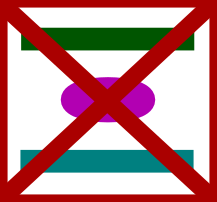
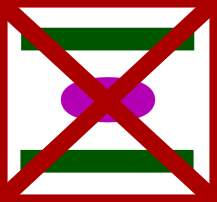
collor corrections to pult

Changed region(s): [[0.1935, 0.7426, 0.8018, 0.8614], [0.0829, 0.7426, 0.1935, 0.8614], [0.8018, 0.7426, 0.9124, 0.8317]]

diff --git a/dashboard/fireboard.py b/dashboard/fireboard.py
@@ -11,7 +11,7 @@ script_path = op.dirname(op.realpath(__file__))
 class V2kInfo(BaseGridW):
     def __init__(self, parent=None):
         super().__init__(parent)
-        self.setStyleSheet('QLabel{font-size:20pt; color:#009900}')
+        self.setStyleSheet('QLabel{font-size:20pt; color:#00e000}')
 
         self.grid.addWidget(QLabel("VEPP2k:"), 0, 0)
         self.v2k_particles_lab = CXIntLabel(cname='cxout:1.v2k.regime',
@@ -68,7 +68,7 @@ class V2kInfo(BaseGridW):
 class V34Info(BaseGridW):
     def __init__(self, parent=None):
         super().__init__(parent)
-        self.setStyleSheet('QLabel{font-size:20pt; color:#009900;}')
+        self.setStyleSheet('QLabel{font-size:20pt; color:#00E000;}')
 
         self.grid.addWidget(QLabel("VEPP3:"), 0, 0)
 
@@ -134,8 +134,8 @@ class FireBoardWidget(BaseGridW):
         self.plt_bep = self.graph_bep.addPlot(labels={'left': ('BEP current', 'mA'), 'bottom': ('Age', 's')})
         self.plt_bep.setXRange(0, 900, padding=0.02)
         self.plt_bep.invertX(True)
-        self.pen_e = pg.mkPen(0, 255, 0, width=self.line_w)
-        self.pen_p = pg.mkPen(255, 0, 0, width=self.line_w)
+        self.pen_e = pg.mkPen(0, 200, 0, width=self.line_w)
+        self.pen_p = pg.mkPen(200, 0, 0, width=self.line_w)
         self.curv_bep = None
 
         plt_v2k = self.graph_v2k.addPlot(labels={'left': ('V2k current', 'mA'), 'bottom': ('Age', 's')})
